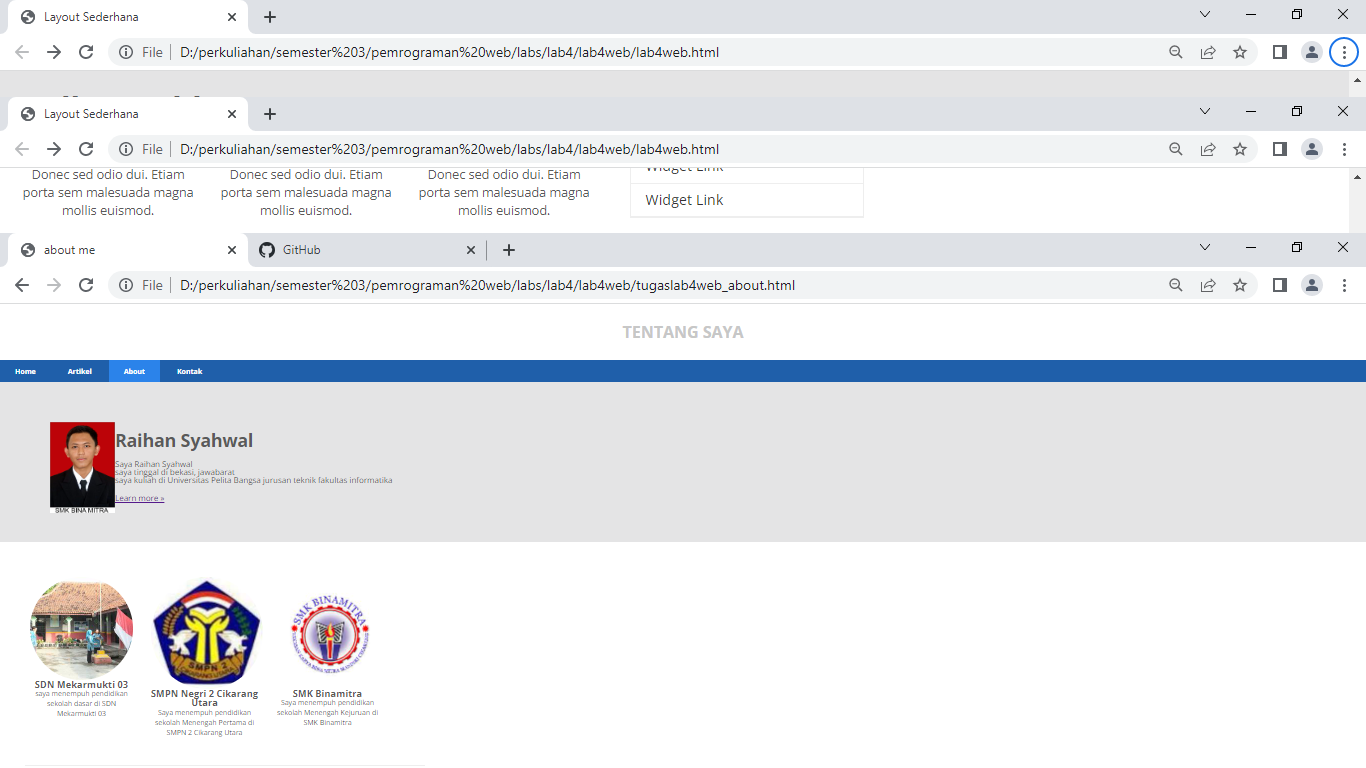
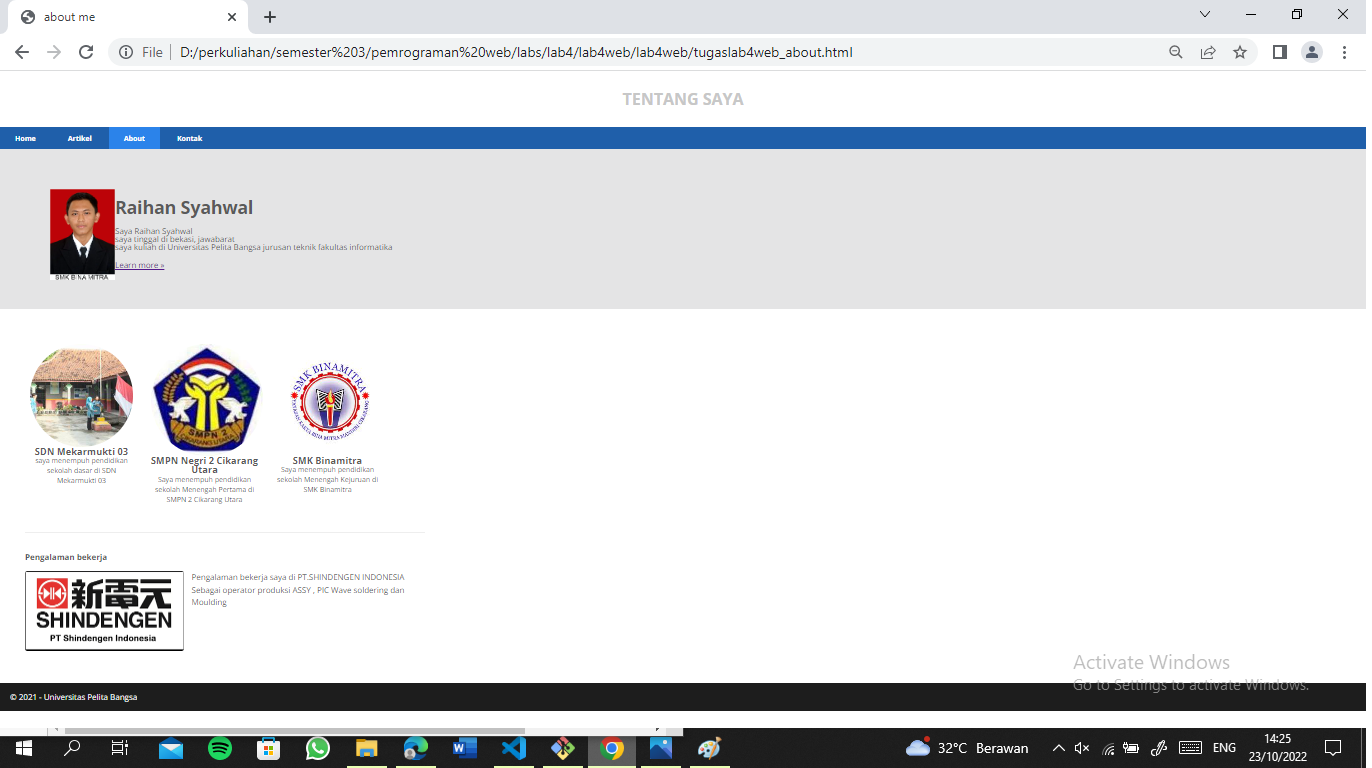
menambahkan file

diff --git a/tugaslab4web_about.html b/tugaslab4web_about.html
@@ -17,7 +17,7 @@
     <a href="lab4web_kontak.html">Kontak</a>
 </nav>
 <section id="hero">
-    <div style="teks-align:left"></div><img src="raihan.jpg" width="130" title="raihan Syahwal" style="float:left;"/><p><h1>Raihan Syahwal</h1>
+    <div style="teks-align:left"></div><img src="gambar/raihan.jpg" width="130" title="raihan Syahwal" style="float:left;"/><p><h1>Raihan Syahwal</h1>
         Saya Raihan Syahwal <br>
         saya tinggal di bekasi, jawabarat<br>
         saya kuliah di Universitas Pelita Bangsa jurusan teknik fakultas informatika<br>
@@ -29,12 +29,12 @@
     <section id="main">
         <div class="row">
             <div class="box">
-                <img src="sdn.jpg" alt="SDN Mekarmukti 03"class="image-circle">
+                <img src="gambar/sdn.jpg" alt="SDN Mekarmukti 03"class="image-circle">
                 <h3>SDN Mekarmukti 03</h3>
                 <p>saya menempuh pendidikan sekolah dasar di SDN Mekarmukti 03</p>
             </div>
             <div class="box">
-                <img src="smk.jpg" alt="SMPN Negri 2 Cikarang Utara"class="image-circle">
+                <img src="gambar/smk.jpg" alt="SMPN Negri 2 Cikarang Utara"class="image-circle">
                 <h3>SMPN Negri 2 Cikarang Utara</h3>
                 <p>Saya menempuh pendidikan sekolah Menengah Pertama di SMPN 2 Cikarang Utara</p>
             </div>

diff --git a/lab4web_kontak.html b/lab4web_kontak.html
@@ -18,9 +18,9 @@
 </nav>
 <section id="hero">
     <h1>HUBUNGI KONTAK DI BAWAH</h1>
-    <div style="teks-align:left"></div><img src="WA.jpg" width="30" title="wa" style="float:left;"/><p><h2>085810285236</h2></p></div>
-    <div style="teks-align:left"></div><img src="IG.jpg" width="30" title="wa" style="float:left;"/><p><h2>@raihansyhwl</h2></p></div>
-    <div style="teks-align:left"></div><img src="GTH.jpg" width="30" title="wa" style="float:left;"/><p><h2>RaihanSyahwal</h2></p></div>
+    <div style="teks-align:left"></div><img src="gambar/WA.jpg" width="30" title="wa" style="float:left;"/><p><h2>085810285236</h2></p></div>
+    <div style="teks-align:left"></div><img src="gambar/IG.jpg" width="30" title="wa" style="float:left;"/><p><h2>@raihansyhwl</h2></p></div>
+    <div style="teks-align:left"></div><img src="gambar/GTH.jpg" width="30" title="wa" style="float:left;"/><p><h2>RaihanSyahwal</h2></p></div>
 </section>
     <aside id="sidebar">
         <div class="widget-box">

diff --git a/README.md b/README.md
@@ -1,1 +1,79 @@
 # lab4web
+nama :Raihansyahwal
+NIM :312110362
+UNIVERSITAS PELITA BANGSA
+## layout sederhana 
+membuat layout sederhana </p>
+di sini menggunakan html dan css 
+maka di perlukannya 
+ /*<link rel="stylesheet" href="##">*/
+pertama membuat navigation terlebih dahulu seperti di gambar </p>
+![gambar 1](screenshoot/gambar%201.png)
+tambah kan css untuk merubah desain sesuai yang di inginkan</p>
+contoh tampilan css
+![gambar 2](screenshoot/gambar%202.png.png)
+codingan css
+![gambar 3](screenshoot/gambar%202.1.png)
+dan tambahkan kembali untuk css untuk mengantur tampilan navigasi</p>
+![gambar 4](screenshoot/gambar%203.png)
+selanjutnya tambahkan panel hero </P>
+tambah dalam bentuk html
+![gambar 5](screenshoot/gambar%204.png)
+dan tambah css untuk tampilan </p>
+contoh tampilan dan codingan css
+![gambar 6](screenshoot/gambar%204.1.png)
+membuat side bar widget </p>
+tambahkan konten side bar menggunakan html
+![gambar 7](screenshoot/gambar%205.png)
+dan tambahkan css contoh codingan seperti di bawah 
+![gambar 8](screenshoot/gambar%205.2.png)
+dan hasil tampilan dari html dan css nya seperti ini 
+![gambar 9](screenshoot/gambar%205.1.png)
+atur footer </p>
+footer html sudah di tambahkan tinggal tambah css 
+contoh codingan dan hasil seperti di bawah
+![gambar 10](screenshoot/gambar%206.png)
+tambah element pada maint content</p>
+tambahkan element seperti contoh di bawah  coding
+![gambar 11](screenshoot/gambar%207.png)
+dan hasil running 
+![gambar 12](screenshoot/gambar%207.1.png)
+tambahkan css untuk mengatur desain seperti di bawah ini 
+![gambar 13](screenshoot/gambar%207.2.png)
+dan hasil running seperti di bawah ini
+![gambar 14](screenshoot/gambar%207.3.png)
+tambah konten artikel</p>
+tambahkan html dan css nya 
+contoh html seperti ini 
+![gambar 15](screenshoot/gambar%208.1.png)
+dan css seperti di bawah ini 
+![gambar 16](screenshoot/gambar%208.2.png)
+hasil running dari keduanya 
+![gambar 17](screenshoot/gambar%208.png)
+### hasil keseluruhan dari praktikum 
+![gambar 18](screenshoot/gambar%209.png)
+#### tugas 
+tambahkan menu layout about 
+dan menambahkan menu single layout yang berisi deskripsi, portfolio, dll
+dan Tambahkan layout untuk menu Contact
+=> yang berisi form isian: nama, email, message, dl
+##### jawaban
+pada tampilan pertama ini bisa langsung menklik menu navigasi about dan kontak </p>
+![gambar 21](screenshoot/gambar%209.png)
+dan file bisa di lihat pada https://github.com/RaihanSyahwal/lab4web.git
+menambahkan menu about dengan men direct html pada menu about ke menu utama dan sebaliknya 
+dengan contoh codingan </p>
+![gambar 19](screenshoot/gambar%2010.png)
+jangan lupa menambahkan css untuk desainnya css sudah ada di link di atas</p>
+di lab4web
+dan hasil seperti ini 
+![gambar 20](screenshoot/gambar%2010.1.png)
+menu kontak tidak jauh berbeda dengan about </p>
+contoh kodingan 
+![gambar 22](screenshoot/gambar%2011.png)
+dan jangan lupa juga css nya 
+dah hasil tampilan seperti ini 
+![gambar 23](screenshoot/gambar%2011.1.png)
+
+sekian terimakasi 
+
